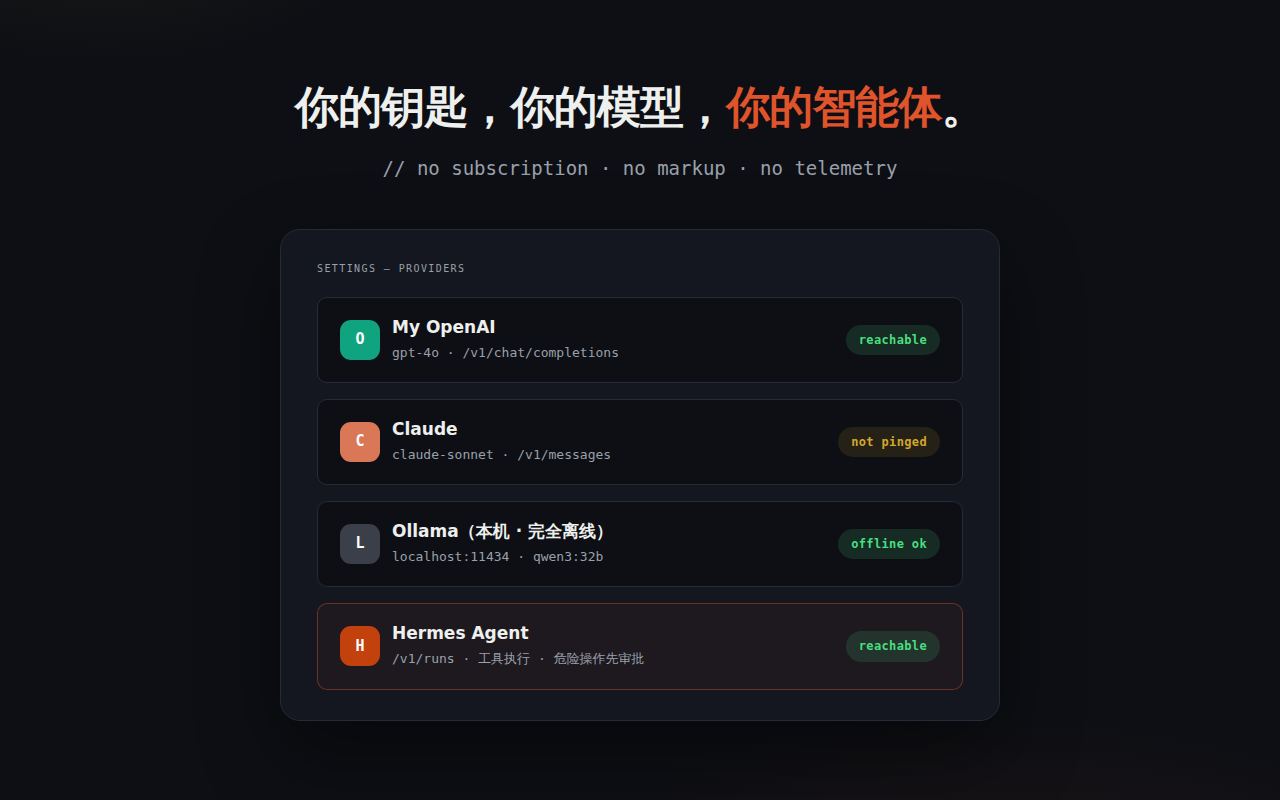
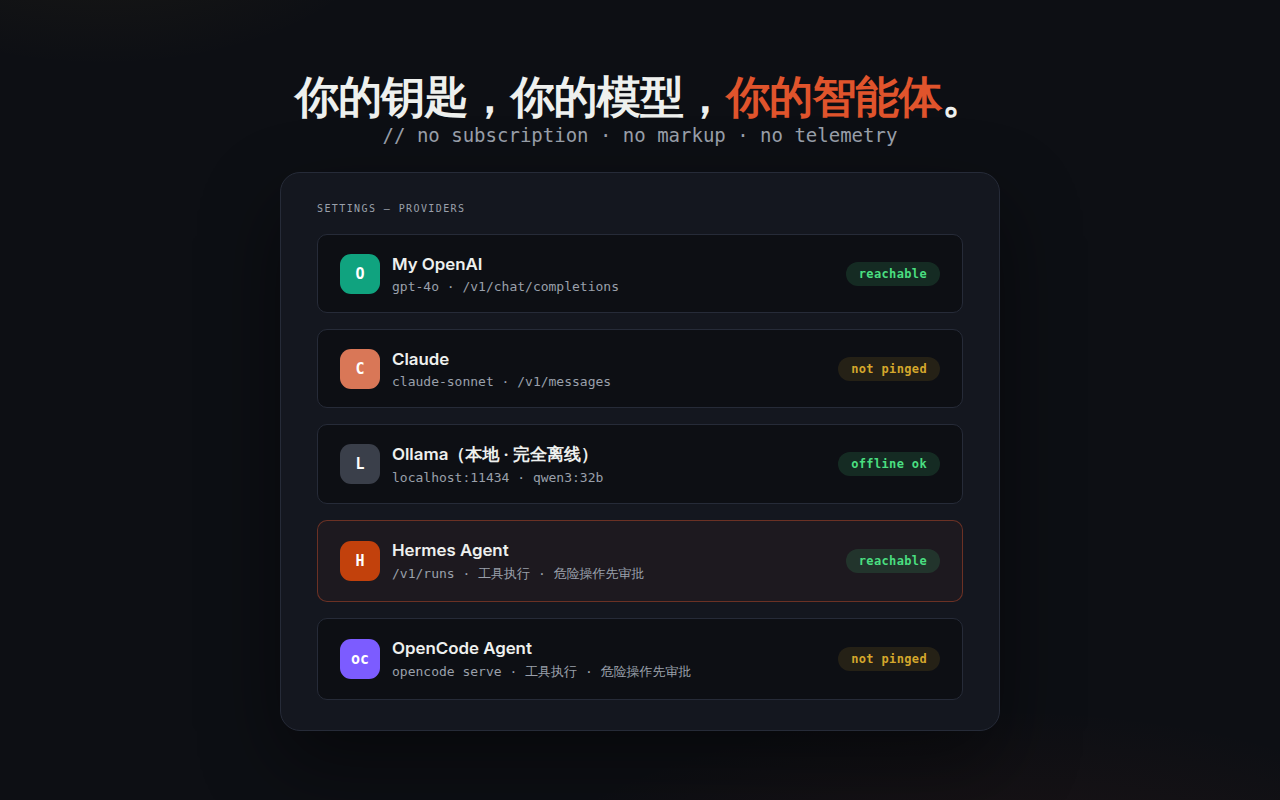
docs(opencode): 官网/商店文案全面同步 + 卡片 baseUrl 出厂留空 + tip 重写 (#108)
- 官网（中英成对）：providers 指南新增 OpenCode Agent 小节（安装/固定端口
  建议/Ping/审批权限配置示例），quickstart、首页（meta/特性/设置页示意板
  加第五张卡）、guide 索引、商店文案 cws-listing 同步提及
- 截图重生成：providers-en/zh.png 加第五张 OpenCode 卡；keys-zh.html
  （中文横幅源此前未进仓库）补入并接入 render.mjs
- README 双语：intro 行、固定卡描述、lib/ 结构描述提及 opencode
- opencode 卡 baseUrl 出厂留空（同 Hermes）：默认值指向没在跑的服务只会
  显得已配置但死的；推荐地址放占位符与文档
- ❓tip 重写：动作优先（启动 serve → 填打印的地址），固定端口建议一句话
  带过，不再像排障说明
- AGENTS.md 同步以上决策；测试 83/83 绿（storage/options/opencode-client）

diff --git a/docs/en/guide/providers.html b/docs/en/guide/providers.html
@@ -4,7 +4,7 @@
 <meta charset="UTF-8">
 <meta name="viewport" content="width=device-width, initial-scale=1.0">
 <title>Connecting backends · browsa guide</title>
-<meta name="description" content="Connect browsa to your own models: OpenAI / Anthropic / Ollama / self-hosted gateways, multiple protocols and models per card; installing Hermes Agent and its approval flow.">
+<meta name="description" content="Connect browsa to your own models: OpenAI / Anthropic / Ollama / self-hosted gateways, multiple protocols and models per card; installing Hermes / opencode agents and their approval flows.">
 <link rel="icon" type="image/png" href="../../icon48.png">
 <link rel="stylesheet" href="../../site.css">
 <link rel="stylesheet" href="../../docs.css">
@@ -60,6 +60,7 @@
       <ul>
         <li><strong>LLM providers</strong> — plain chat endpoints, covering nearly every service: OpenAI, Anthropic, Ollama, Groq, LiteLLM, aggregation gateways.</li>
         <li><strong>Hermes Agent</strong> — a self-hosted agent with server-side tool execution: it can search, run commands, and operate files. Built into browsa; just point it at your server.</li>
+        <li><strong>OpenCode Agent</strong> — the <a href="https://opencode.ai">opencode</a> CLI agent with its first-party headless server. Also built in: one command starts the server, browsa connects directly.</li>
       </ul>
 
       <h2>Filling in a provider card</h2>
@@ -76,7 +77,7 @@
       </table>
       <p>Save, then hit <strong>Ping</strong>: connectivity is verified and capabilities auto-detected. The first provider to ping successfully becomes active automatically; switch anytime from the dropdown at the top of the panel — multi-model cards expand to one "Alias · model" entry each.</p>
       <figure class="shot">
-        <img src="../../assets/readme/providers-en.png" alt="browsa settings listing OpenAI, Claude, Ollama, and Hermes Agent provider cards" loading="lazy">
+        <img src="../../assets/readme/providers-en.png" alt="browsa settings listing OpenAI, Claude, Ollama, Hermes Agent, and OpenCode Agent provider cards" loading="lazy">
         <figcaption>Settings: each card carries its own protocol and alias; ping state at a glance.</figcaption>
       </figure>
 
@@ -102,6 +103,18 @@ agent:
   reasoning_overrides: # per-model thinking effort (the global knob is agent.reasoning_effort)
     your-model: medium</pre>
       <p>Run <code>hermes gateway restart</code> to apply. Measured by the author (qwen3.8-flash, an 80K-token context): the slimmed toolset sheds about 14K tokens per request, and the lower thinking effort directly cuts the wait before the first word. Also note that model services generally accelerate consecutive follow-ups within ~5 minutes via prefix caching — <strong>asking in a row is much faster than returning after a few minutes</strong>. That part is on the model side; nothing to configure.</p>
+
+      <h2>OpenCode Agent</h2>
+      <p><a href="https://opencode.ai">opencode</a> is an open-source CLI agent that ships a first-party headless server — browsa connects to it directly (multi-turn context lives in the opencode session; browsa just sends your turns). The agent works on whatever directory the server was started in:</p>
+      <ol>
+        <li>Install: <code>npm i -g opencode-ai</code>, then follow the first-run login flow;</li>
+        <li>Start: <code>opencode serve --port 4096</code>. <strong>Pin the port</strong> — bare <code>opencode serve</code> picks a random one that changes on every restart; a pinned port is a set-and-forget config in browsa;</li>
+        <li>In browsa settings, select the <strong>OpenCode Agent</strong> card, fill Base URL <code>http://127.0.0.1:4096</code> (the placeholder suggests it), then Ping.</li>
+      </ol>
+      <p>When opencode wants to run a dangerous action (like a shell command), the approval card appears right in the browsa panel. To enable that, mark the permissions as ask-once in <code>~/.config/opencode/opencode.json</code>:</p>
+      <pre class="doc-code">{
+  "permission": { "bash": "ask", "edit": "ask" }
+}</pre>
 
       <h2>Ollama, locally</h2>
       <p>Running Ollama on your machine? Base URL <code>http://localhost:11434</code>, protocol Chat Completions (Ollama speaks the OpenAI format), Model ID set to a pulled model such as <code>qwen3:32b</code>. Fully <strong>offline-capable</strong>.</p>

diff --git a/docs/guide/providers.html b/docs/guide/providers.html
@@ -4,7 +4,7 @@
 <meta charset="UTF-8">
 <meta name="viewport" content="width=device-width, initial-scale=1.0">
 <title>连接后端 · browsa 指南</title>
-<meta name="description" content="把 browsa 连到你自己的模型：OpenAI / Anthropic / Ollama / 自建网关，多协议多模型；Hermes Agent 的安装步骤与工具审批流。">
+<meta name="description" content="把 browsa 连到你自己的模型：OpenAI / Anthropic / Ollama / 自建网关，多协议多模型；Hermes / opencode 智能体的安装步骤与工具审批流。">
 <link rel="icon" type="image/png" href="../icon48.png">
 <link rel="stylesheet" href="../site.css">
 <link rel="stylesheet" href="../docs.css">
@@ -59,6 +59,7 @@
       <ul>
         <li><strong>LLM 提供商</strong>——普通对话端点，覆盖市面上几乎所有服务：OpenAI、Anthropic、Ollama、Groq、LiteLLM、各种聚合网关。</li>
         <li><strong>Hermes Agent</strong>——自带工具执行的自托管智能体：能搜索、跑命令、操作文件，是「能做事」的后端。内置在 browsa 里，填个地址就能用。</li>
+        <li><strong>OpenCode Agent</strong>——<a href="https://opencode.ai">opencode</a> 命令行智能体，自带官方无头服务器，同样内置：一条命令起服务，直连即用。</li>
       </ul>
 
       <h2>配一张提供商卡</h2>
@@ -75,7 +76,7 @@
       </table>
       <p>保存后点 <strong>Ping</strong>：验证连通性并自动识别模型能力。第一个 Ping 通的提供商会自动设为当前使用；之后在侧边栏顶部下拉里随时切换，多模型的卡会按「别名 · 模型」逐个列出。</p>
       <figure class="shot">
-        <img src="../assets/readme/providers-zh.png" alt="browsa 设置页：OpenAI、Claude、Ollama 与 Hermes Agent 四张提供商卡" loading="lazy">
+        <img src="../assets/readme/providers-zh.png" alt="browsa 设置页：OpenAI、Claude、Ollama、Hermes Agent 与 OpenCode Agent 五张提供商卡" loading="lazy">
         <figcaption>设置页：每张卡独立协议、独立别名，Ping 状态一目了然。</figcaption>
       </figure>
 
@@ -101,6 +102,18 @@ agent:
   reasoning_overrides: # 按模型覆盖思考力度（全局项是 agent.reasoning_effort）
     你的模型名: medium</pre>
       <p>改完执行 <code>hermes gateway restart</code> 生效。作者实测（qwen3.8-flash、8 万 token 长上下文）：工具集瘦身让每轮请求少背约 1.4 万 token，思考降档直接缩短首字前的等待。另外模型服务普遍对 5 分钟内的连续追问做前缀缓存加速——<strong>连续提问比隔几分钟再问快得多</strong>，这是模型侧行为，无需任何配置。</p>
+
+      <h2>OpenCode Agent</h2>
+      <p><a href="https://opencode.ai">opencode</a> 是开源命令行智能体，自带官方无头服务器——browsa 直连它即可（多轮上下文由 opencode 会话自己维护，browsa 只发送你的每一句话）。服务器在哪个目录启动，agent 就在哪个项目上干活：</p>
+      <ol>
+        <li>安装：<code>npm i -g opencode-ai</code>，首次运行按引导登录模型服务；</li>
+        <li>启动：<code>opencode serve --port 4096</code>。<strong>建议固定端口</strong>——裸 <code>opencode serve</code> 会随机选端口且每次重启都变，固定后 browsa 里配置一次就不用再动；</li>
+        <li>在 browsa 设置里选中 <strong>OpenCode Agent</strong> 卡，Base URL 填 <code>http://127.0.0.1:4096</code>（占位符即此建议值），Ping 验证。</li>
+      </ol>
+      <p>当 opencode 要执行危险操作（如 shell 命令）时，审批卡会直接出现在 browsa 面板里。要启用这一步，在 <code>~/.config/opencode/opencode.json</code> 里把权限设为询问：</p>
+      <pre class="doc-code">{
+  "permission": { "bash": "ask", "edit": "ask" }
+}</pre>
 
       <h2>Ollama 本地模型</h2>
       <p>本机跑 Ollama 的话，Base URL 填 <code>http://localhost:11434</code>，API 协议选 Chat Completions（Ollama 兼容 OpenAI 格式）。模型 ID 填已拉取的模型名，如 <code>qwen3:32b</code>。<strong>完全离线</strong>也能用。</p>

diff --git a/docs/index.html b/docs/index.html
@@ -4,7 +4,7 @@
 <meta charset="UTF-8">
 <meta name="viewport" content="width=device-width, initial-scale=1.0">
 <title>browsa — 浏览器侧边栏 AI</title>
-<meta name="description" content="browsa 是一个 Chrome / Edge 侧边栏扩展：把当前页面带进对话，流式回答，支持 OpenAI / Anthropic / Ollama 等主流 API 与 Hermes Agent。读到哪里，问到哪里。">
+<meta name="description" content="browsa 是一个 Chrome / Edge 侧边栏扩展：把当前页面带进对话，流式回答，支持 OpenAI / Anthropic / Ollama 等主流 API 与 Hermes / opencode 智能体。读到哪里，问到哪里。">
 <link rel="icon" type="image/png" href="icon48.png">
 <link rel="stylesheet" href="site.css">
 <meta property="og:title" content="browsa — 浏览器侧边栏 AI">
@@ -277,7 +277,7 @@
         <div class="how reveal">
           <span class="no">03</span>
           <h3>流式回答 <span class="tag">任意后端</span></h3>
-          <p>回答逐字流式渲染，Markdown、公式、图表一应俱全。连接你自己的 API：OpenAI、Anthropic、Ollama、LiteLLM…或 Hermes Agent。界面文字跟随浏览器语言，也可手动切换中英文。</p>
+          <p>回答逐字流式渲染，Markdown、公式、图表一应俱全。连接你自己的 API：OpenAI、Anthropic、Ollama、LiteLLM…或 Hermes / opencode 智能体。界面文字跟随浏览器语言，也可手动切换中英文。</p>
         </div>
       </div>
       <p class="site-note">装好了？<a href="guide/quickstart.html">快速上手</a>带你完成第一次提问；<a href="guide/">完整使用指南</a>覆盖读取、视频、渲染、会话、后端与设置。</p>
@@ -342,6 +342,7 @@
           <p>不用厂商锁定，连你自己的模型：</p>
           <ul>
             <li>Hermes Agent：工具执行、危险操作审批、进度展示</li>
+            <li>OpenCode Agent：opencode CLI 智能体直连，同样是完整的工具与审批流</li>
             <li>多协议接入：OpenAI（Chat / Responses）、Anthropic Messages、Ollama、LiteLLM…</li>
             <li>一张卡可填多个模型（逗号分隔），侧边栏按「别名 · 模型」逐个切换</li>
             <li>Ping 一键检测连通性与模型能力</li>
@@ -447,6 +448,11 @@
             <span class="prov-ava pa-hermes">H</span>
             <span class="prov-info"><span class="prov-name">Hermes Agent</span><span class="prov-model">/v1/runs · 工具执行 · 危险操作先审批</span></span>
             <span class="prov-badge pb-ok">reachable</span>
+          </div>
+          <div class="prov-card">
+            <span class="prov-ava pa-opencode">oc</span>
+            <span class="prov-info"><span class="prov-name">OpenCode Agent</span><span class="prov-model">opencode serve · 工具执行 · 危险操作先审批</span></span>
+            <span class="prov-badge pb-idle">not pinged</span>
           </div>
         </div>
       </div>

diff --git a/docs/en/index.html b/docs/en/index.html
@@ -4,7 +4,7 @@
 <meta charset="UTF-8">
 <meta name="viewport" content="width=device-width, initial-scale=1.0">
 <title>browsa — Side-panel AI for your browser</title>
-<meta name="description" content="browsa is a Chrome / Edge side-panel extension: bring the current page into the conversation — articles, subtitles, PDFs — and stream replies right next to it. Any OpenAI-compatible API or Hermes Agent.">
+<meta name="description" content="browsa is a Chrome / Edge side-panel extension: bring the current page into the conversation — articles, subtitles, PDFs — and stream replies right next to it. Any OpenAI-compatible API, or the Hermes / opencode agents.">
 <link rel="icon" type="image/png" href="../icon48.png">
 <link rel="stylesheet" href="../site.css">
 <meta property="og:title" content="browsa — Side-panel AI for your browser">
@@ -281,7 +281,7 @@
         <div class="how reveal">
           <span class="no">03</span>
           <h3>Stream replies <span class="tag">any backend</span></h3>
-          <p>Replies stream in word by word, with Markdown, math and charts. Connect your own OpenAI-compatible API or Hermes Agent. The UI follows your browser language — English / 中文 switchable.</p>
+          <p>Replies stream in word by word, with Markdown, math and charts. Connect your own OpenAI-compatible API, or the Hermes / opencode agents. The UI follows your browser language — English / 中文 switchable.</p>
         </div>
       </div>
       <p class="site-note">Installed? <a href="guide/quickstart.html">Quick start</a> walks you through the first question; the <a href="guide/">full guide</a> covers reading, video, rendering, sessions, backends and settings.</p>
@@ -345,6 +345,7 @@
           <p>No vendor lock-in — connect your own models:</p>
           <ul>
             <li>Hermes Agent: tool execution, approval for risky actions, progress display</li>
+            <li>OpenCode Agent: direct line to the opencode CLI agent — same full tool &amp; approval flow</li>
             <li>Any OpenAI-compatible API: OpenAI, Ollama, LiteLLM…</li>
             <li>Multiple models per card (comma-separated) — switch via “Alias · model” in the sidebar</li>
             <li>Ping to verify connectivity and capabilities</li>
@@ -449,6 +450,11 @@
             <span class="prov-ava pa-hermes">H</span>
             <span class="prov-info"><span class="prov-name">Hermes Agent</span><span class="prov-model">/v1/runs · tools · approvals</span></span>
             <span class="prov-badge pb-ok">reachable</span>
+          </div>
+          <div class="prov-card">
+            <span class="prov-ava pa-opencode">oc</span>
+            <span class="prov-info"><span class="prov-name">OpenCode Agent</span><span class="prov-model">opencode serve · tools · approvals</span></span>
+            <span class="prov-badge pb-idle">not pinged</span>
           </div>
         </div>
       </div>

diff --git a/dev-preview/banners/keys-zh.html b/dev-preview/banners/keys-zh.html
@@ -1,8 +1,8 @@
-<!doctype html><html lang="en"><head><meta charset="utf-8"><style>
+<!doctype html><html lang="zh-CN"><head><meta charset="utf-8"><style>
 @font-face{font-family:'Inter';src:url('InterVar.ttf');font-weight:100 900}
 *{margin:0;padding:0;box-sizing:border-box}
 body{width:1280px;height:800px;overflow:hidden;position:relative;
-  font-family:'Inter',-apple-system,BlinkMacSystemFont,"Segoe UI",system-ui,sans-serif;
+  font-family:'Inter',-apple-system,BlinkMacSystemFont,"Segoe UI",system-ui,"PingFang SC","Microsoft YaHei",sans-serif;
   background:#0d0f14;display:flex;align-items:center;justify-content:center;
   background:
   radial-gradient(ellipse 900px 420px at 78% 120%,rgba(224,84,44,.10),transparent 60%),
@@ -33,7 +33,7 @@ body{width:1280px;height:800px;overflow:hidden;position:relative;
 .pb-idle{color:#d4a72c;background:rgba(212,167,44,.12)}
 </style></head><body>
 <div class="col">
-  <h2 class="keys-h">Your keys. Your models. <em>Your agent.</em></h2>
+  <h2 class="keys-h">你的钥匙，你的模型，<em>你的智能体</em>。</h2>
   <p class="keys-sub">// no subscription · no markup · no telemetry</p>
   <div class="prov-board">
     <div class="prov-card">
@@ -48,17 +48,17 @@ body{width:1280px;height:800px;overflow:hidden;position:relative;
     </div>
     <div class="prov-card">
       <span class="prov-ava pa-ollama">L</span>
-      <span class="prov-info"><span class="prov-name">Ollama (local · fully offline)</span><span class="prov-model">localhost:11434 · qwen3:32b</span></span>
+      <span class="prov-info"><span class="prov-name">Ollama（本地 · 完全离线）</span><span class="prov-model">localhost:11434 · qwen3:32b</span></span>
       <span class="prov-badge pb-ok">offline ok</span>
     </div>
     <div class="prov-card active">
       <span class="prov-ava pa-hermes">H</span>
-      <span class="prov-info"><span class="prov-name">Hermes Agent</span><span class="prov-model">/v1/runs · tools · approval for risky actions</span></span>
+      <span class="prov-info"><span class="prov-name">Hermes Agent</span><span class="prov-model">/v1/runs · 工具执行 · 危险操作先审批</span></span>
       <span class="prov-badge pb-ok">reachable</span>
     </div>
     <div class="prov-card">
       <span class="prov-ava pa-opencode">oc</span>
-      <span class="prov-info"><span class="prov-name">OpenCode Agent</span><span class="prov-model">opencode serve · tools · approval for risky actions</span></span>
+      <span class="prov-info"><span class="prov-name">OpenCode Agent</span><span class="prov-model">opencode serve · 工具执行 · 危险操作先审批</span></span>
       <span class="prov-badge pb-idle">not pinged</span>
     </div>
   </div>

diff --git a/options.js b/options.js
@@ -282,7 +282,7 @@ function buildProviderCard(name, cfg, opts = {}) {
   // deep inside card.innerHTML's template made V8's parser bail with
   // "missing ) after argument list" — same HTML, one less nesting level.
   const agentBaseUrlTip = !isAgent ? '' : cfg.isOpencode
-    ? `<span class="tip" tabindex="0">?<span class="tip-bubble">${_t('opencodeTip', 'browsa 能连任意 opencode serve 地址。裸 <code>opencode serve</code> 默认随机选端口且每次重启都会变——推荐 <code>opencode serve --port 4096</code> 固定端口一劳永逸；用随机端口的话，把启动横幅里显示的实际地址填到这里即可（每次重启需更新）。<a href="https://opencode.ai/docs/server/" target="_blank" rel="noopener noreferrer">opencode Server 文档</a>')}</span></span>`
+    ? `<span class="tip" tabindex="0">?<span class="tip-bubble">${_t('opencodeTip', '先在终端启动 <code>opencode serve --port 4096</code>，把它打印的地址填到这里（建议固定端口；不固定则每次重启端口都会变）。<a href="https://opencode.ai/docs/server/" target="_blank" rel="noopener noreferrer">opencode Server 文档</a>')}</span></span>`
     : `<span class="tip" tabindex="0">?<span class="tip-bubble"><a href="https://hermes-agent.nousresearch.com/docs/user-guide/features/api-server" target="_blank" rel="noopener noreferrer">${_t('hermesApiDocsLink', 'Hermes API Server 启动与配置文档')}</a></span></span>`;
 
   // Restore ping state from memory

diff --git a/lib/storage.js b/lib/storage.js
@@ -16,10 +16,12 @@ const DEFAULTS = {
     // opencode is the second built-in agent provider — `opencode serve` is a
     // first-party headless HTTP server (OpenAPI at GET /doc) with sessions,
     // streaming events, and permission/question flows (lib/opencode-client.js).
-    // Fixed, not user-deletable; default baseUrl matches `opencode serve
-    // --port 4096` (bare `opencode serve` picks a RANDOM port, so the user
-    // must pin one for browsa to reach it). apiKey is optional (bearer).
-    opencode: { type: 'agent', alias: 'OpenCode Agent', baseUrl: 'http://127.0.0.1:4096', apiKey: '', model: '', stream: true, isHermes: false, isOpencode: true, apiStyle: 'chat', temperature: null, maxTokens: 0 },
+    // Fixed, not user-deletable. baseUrl ships EMPTY (same as Hermes): the
+    // recommended address (http://127.0.0.1:4096, i.e. `opencode serve
+    // --port 4096`) lives in the card's placeholder, not in a default that
+    // would look configured while pointing at a server that isn't running.
+    // apiKey is optional (bearer).
+    opencode: { type: 'agent', alias: 'OpenCode Agent', baseUrl: '', apiKey: '', model: '', stream: true, isHermes: false, isOpencode: true, apiStyle: 'chat', temperature: null, maxTokens: 0 },
     // LLM providers are user-added (via the options page) — the defaults
     // ship with NO llm cards in storage. The options page shows a render-only
     // reserved empty "LLM 1" slot when the group is empty (committed to

diff --git a/docs/guide/quickstart.html b/docs/guide/quickstart.html
@@ -80,7 +80,7 @@
       <p>browsa 不内置任何模型——它把<b>你自己配置的后端</b>搬进侧边栏。点击侧边栏右上角的 <strong>⚙ 设置</strong>：</p>
       <ul>
         <li><strong>普通对话模型</strong>：任何兼容 OpenAI、Anthropic 或 Ollama 的端点。填 <strong>Base URL + API Key + 模型 ID</strong>，点 Save 保存。</li>
-        <li><strong>Hermes Agent</strong>：自带工具执行的自托管智能体（可选，安装方法见<a href="providers.html">连接后端</a>）。</li>
+        <li><strong>Hermes Agent / OpenCode Agent</strong>：自带工具执行的智能体后端，两款都内置（可选，安装方法见<a href="providers.html">连接后端</a>）。</li>
       </ul>
       <p>保存后点 <strong>Ping</strong> 验证连通性——第一个 Ping 通的提供商会自动设为当前使用。</p>
       <div class="tip"><b>没有 API Key？</b>本机装一个 Ollama（<code>localhost:11434</code>）就能完全离线使用；各云服务商的控制台也都提供 Key。字段含义与多模型配置见<a href="providers.html">连接后端</a>一页。</div>

diff --git a/docs/en/guide/quickstart.html b/docs/en/guide/quickstart.html
@@ -81,7 +81,7 @@
       <p>browsa ships with no model of its own — it brings <strong>the backend you configure</strong> into the panel. Click <strong>⚙ Settings</strong> in the panel's top bar:</p>
       <ul>
         <li><strong>Plain chat models</strong>: any endpoint compatible with OpenAI, Anthropic, or Ollama. Fill in <strong>Base URL + API Key + Model ID</strong>, then Save.</li>
-        <li><strong>Hermes Agent</strong>: an optional self-hosted agent with tool execution — see <a href="providers.html">Connecting backends</a>.</li>
+        <li><strong>Hermes Agent / OpenCode Agent</strong>: optional agent backends with tool execution, both built in — see <a href="providers.html">Connecting backends</a>.</li>
       </ul>
       <p>Then hit <strong>Ping</strong> to verify — the first provider that pings successfully becomes active automatically.</p>
       <div class="tip"><b>No API key?</b> Install Ollama locally (<code>localhost:11434</code>) for fully offline use, or grab a key from any cloud provider's console. Field-by-field details live on the <a href="providers.html">Connecting backends</a> page.</div>

diff --git a/docs/site.css b/docs/site.css
@@ -549,7 +549,7 @@ main section{padding:88px 0;scroll-margin-top:64px;counter-increment:sec;positio
   display:flex;align-items:center;justify-content:center;
   font-family:var(--mono);font-size:11px;font-weight:700;color:#fff;
 }
-.pa-openai{background:#10a37f}.pa-claude{background:#d97757}.pa-ollama{background:#3a3f4a}.pa-hermes{background:var(--mark)}
+.pa-openai{background:#10a37f}.pa-claude{background:#d97757}.pa-ollama{background:#3a3f4a}.pa-hermes{background:var(--mark)}.pa-opencode{background:#7c5cff}
 .prov-info{flex:1;min-width:0}
 .prov-name{display:block;font-size:13px;font-weight:600;color:var(--ink);line-height:1.3}
 .prov-model{display:block;font-family:var(--mono);font-size:10.5px;color:var(--ink-dim);margin-top:2px;white-space:nowrap;overflow:hidden;text-overflow:ellipsis}

diff --git a/docs/en/guide/index.html b/docs/en/guide/index.html
@@ -92,7 +92,7 @@
         <a class="feature" href="providers.html">
           <span class="f-tag">06</span>
           <h3>Connecting backends</h3>
-          <p>OpenAI / Anthropic / Ollama or your own gateway, multiple protocols and models; installing Hermes Agent with its approval flow.</p>
+          <p>OpenAI / Anthropic / Ollama or your own gateway, multiple protocols and models; installing the Hermes / opencode agents and their approval flows.</p>
           <span class="go">Read →</span>
         </a>
         <a class="feature" href="settings.html">

diff --git a/docs/guide/index.html b/docs/guide/index.html
@@ -91,7 +91,7 @@
         <a class="feature" href="providers.html">
           <span class="f-tag">06</span>
           <h3>连接后端</h3>
-          <p>OpenAI / Anthropic / Ollama 或自建网关，多协议多模型；Hermes Agent 的安装与审批流。</p>
+          <p>OpenAI / Anthropic / Ollama 或自建网关，多协议多模型；Hermes / opencode 智能体的安装与审批流。</p>
           <span class="go">阅读 →</span>
         </a>
         <a class="feature" href="settings.html">
